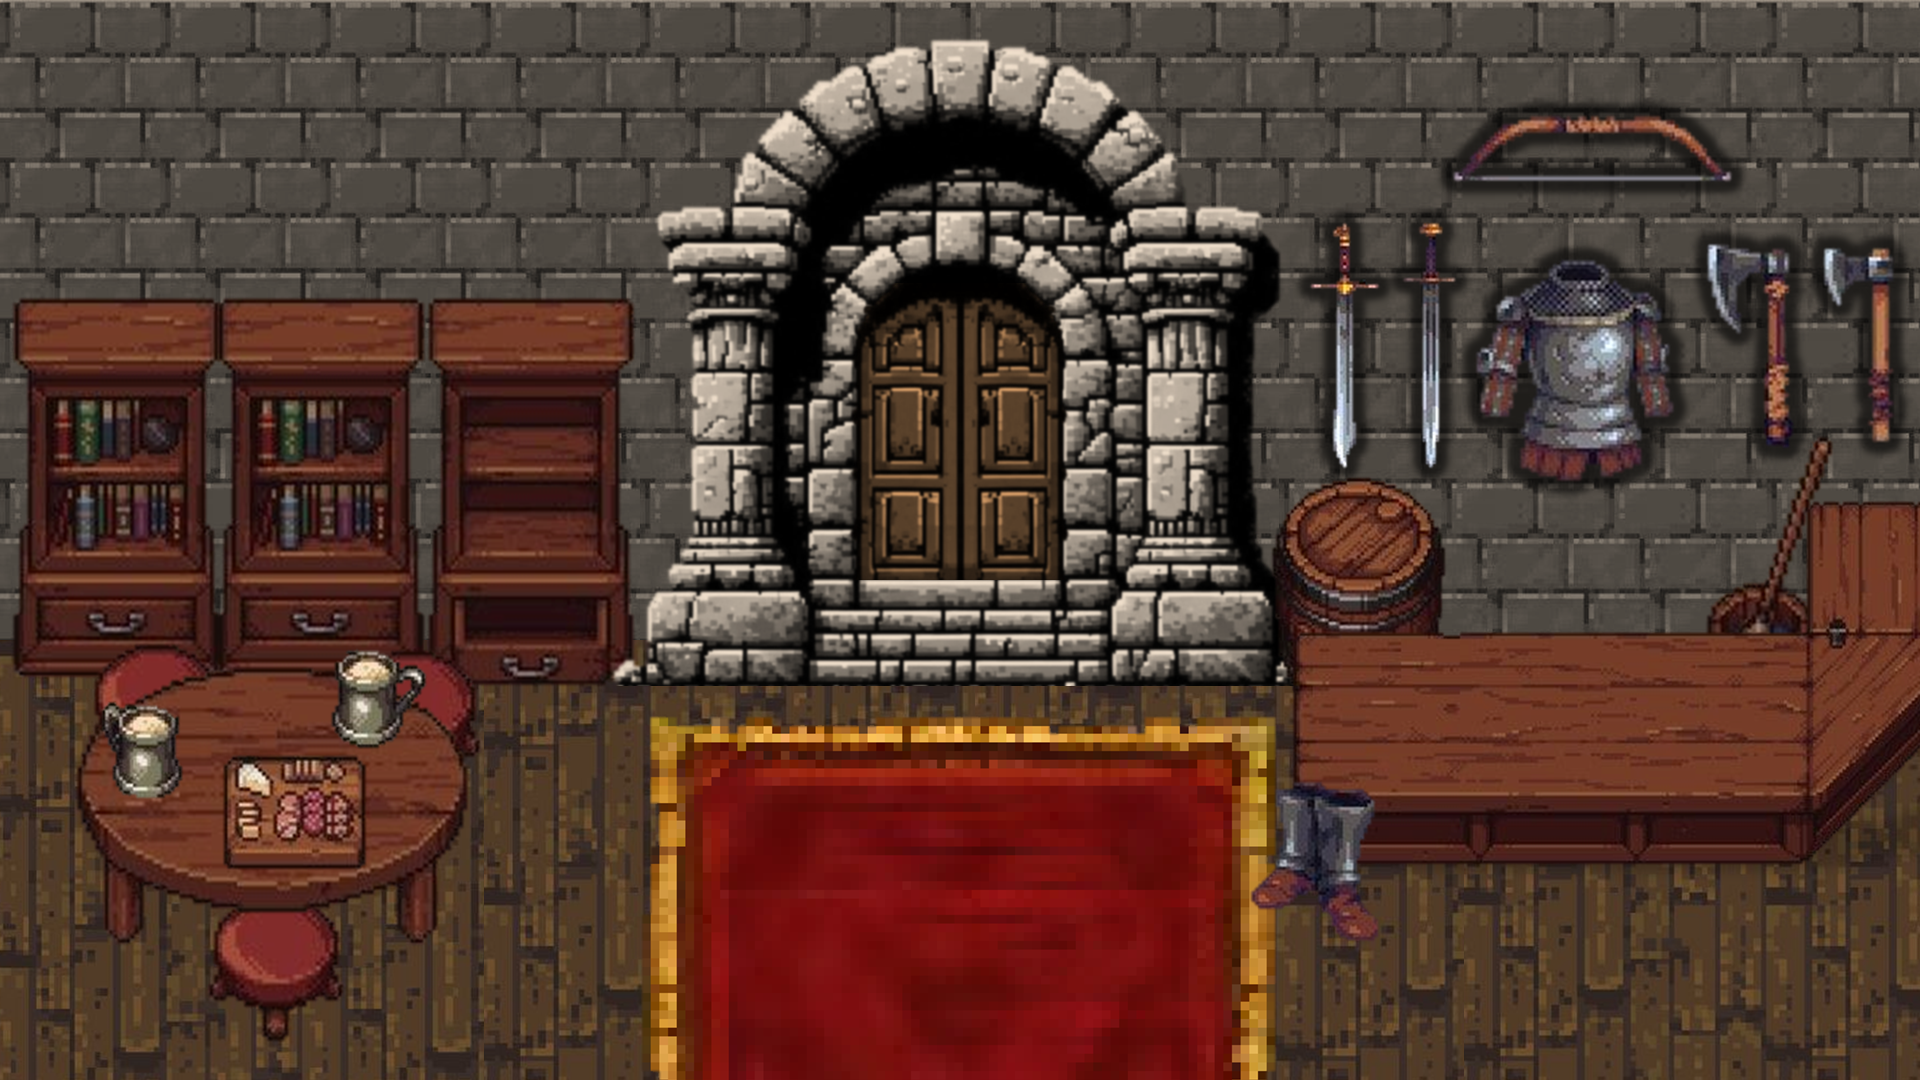
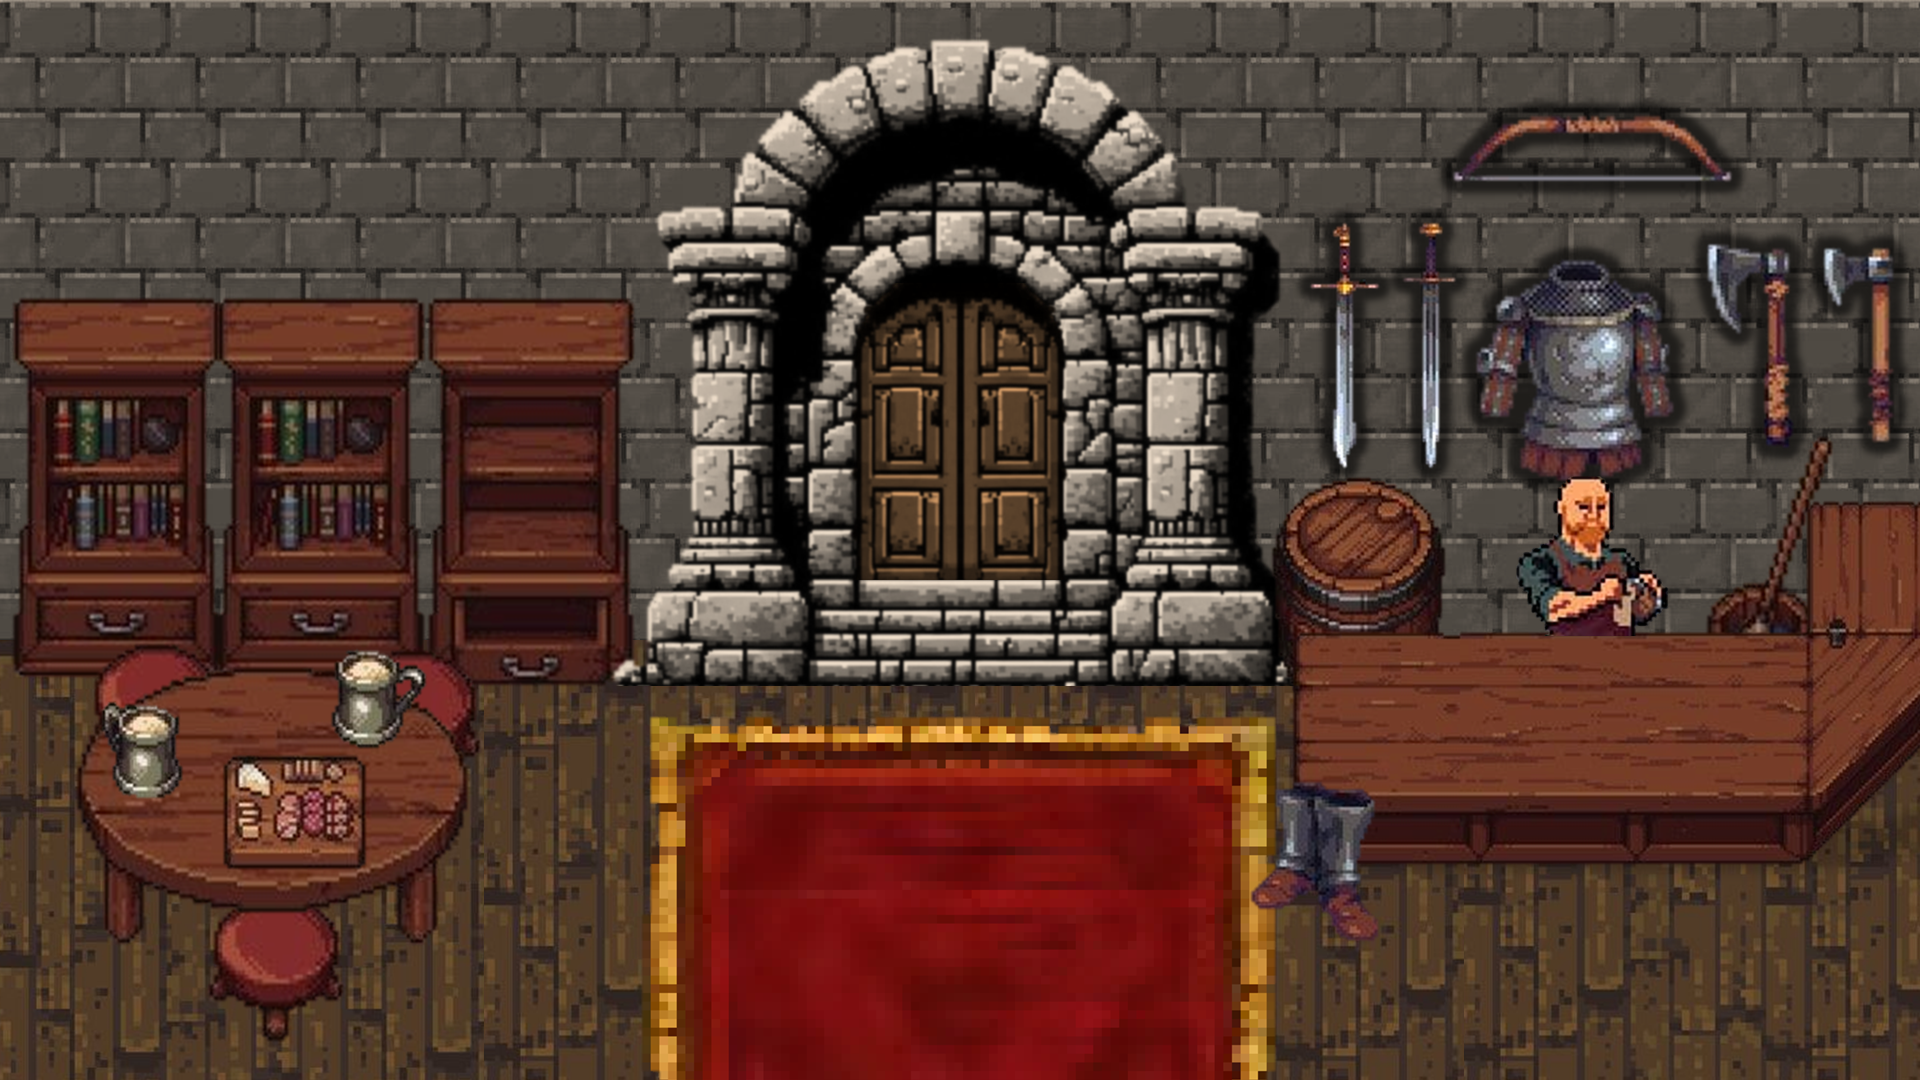
Появился торговец

Changed region(s): [[0.7812, 0.4278, 0.875, 0.6111]]

diff --git a/client/src/pages/Lobby/LobbyCanvas/LobbyCanvas.tsx b/client/src/pages/Lobby/LobbyCanvas/LobbyCanvas.tsx
@@ -1,7 +1,6 @@
 import React, { useEffect, useState, useRef, useContext, useCallback, useMemo } from 'react';
 import { ServerContext, StoreContext } from '../../../App';
 import CONFIG, { EDIRECTION } from "../../../config";
-import Game from '../../../game/Game';
 import { Canvas, useCanvas } from "../../../services/canvas";
 import { IBasePage, PAGES } from '../../PageManager';
 import { useRoomUser } from '../../../hooks/useRoomUser';
@@ -12,34 +11,35 @@ import menuBackground from '../../../assets/img/lobby/menu-background.png';
 import lobbyBackground from '../../../assets/img/lobby/lobby-background.png';
 
 const lobbyField = 'lobby-field';
+let bg = new Image();
+bg.src = menuBackground;
+
+let movementKeys = {
+    w: false,
+    a: false,
+    s: false,
+    d: false
+};
 
 type TLobbyCanvas = IBasePage & {
     setGame: (game: LobbyGame) => void;
+    setPage: (page: PAGES) => void;
     openLobbyBook: () => void;
     openClassShop: () => void;
     isMovementBlocked: boolean;
 };
 
 const LobbyCanvas: React.FC<TLobbyCanvas> = (props: TLobbyCanvas) => {
-    const { room } = props;
+    let game: LobbyGame | null = null;
+    const { setGame, setPage, openLobbyBook, openClassShop, isMovementBlocked } = props;
     const server = useContext(ServerContext);
     const store = useContext(StoreContext);
-
+    let canvas: Canvas;
+    const Canvas = useCanvas(render);
     const { WINDOW, SPRITE_SIZE } = CONFIG;
     const user = store.getUser();
-
-    const gameRef = useRef<LobbyGame | null>(null);
-    const canvasRef = useRef<Canvas | null>(null);
-    const animationFrameRef = useRef<number>(0);
-    const backgroundImageRef = useRef<HTMLImageElement>(new Image());
-
+    const room = store.getUserRoom();
     const { isUserRoomMember } = useRoomUser(room, user);
-    const background = isUserRoomMember ? lobbyBackground : menuBackground;
-    const { setPage } = props;
-
-    useEffect(() => {
-        backgroundImageRef.current.src = background;
-    }, [background]);
 
     const {
         spritesImage,
@@ -50,6 +50,22 @@ const LobbyCanvas: React.FC<TLobbyCanvas> = (props: TLobbyCanvas) => {
 
     const heroIdleRightSprite = heroSprites.idleRightSprite;
     const heroIdleLeftSprite = heroSprites.idleLeftSprite;
+
+    useEffect(() => {
+        bg.src = isUserRoomMember ? lobbyBackground : menuBackground;
+    }, [isUserRoomMember]);
+
+    function printGameObject(
+        canvas: Canvas,
+        { x = 0, y = 0, width = 0, height = 0 }: { x: number; y: number; width: number; height: number },
+        color: string
+    ): void {
+        canvas.rectangle(x, y, width, height, color);
+    }
+
+    function printFillSprite(image: HTMLImageElement, canvas: Canvas, { x = 0, y = 0 }, points: number[]): void {
+        canvas.spriteFull(image, x, y, points[0], points[1], points[2]);
+    }
 
     function printHeroSprite(
         canvas: Canvas,
@@ -80,103 +96,61 @@ const LobbyCanvas: React.FC<TLobbyCanvas> = (props: TLobbyCanvas) => {
         printFillSprite(spritesImage, canvas, { x, y }, [sx, sy, size]);
     }
 
-    const keysPressedRef = useRef({
-        w: false,
-        a: false,
-        s: false,
-        d: false
-    });
+    function render(fps: number): void {
+        if (!canvas || !game) return;
+        canvas.clear();
+        canvas.clearImage(bg);
 
-    // Функция для отрисовки
-    function printGameObject(
-        canvas: Canvas,
-        { x = 0, y = 0, width = 100, height = 100 }: { x: number; y: number; width: number; height: number },
-        color: string
-    ): void {
-        canvas.rectangle(x, y, width, height, color);
-    }
+        const scene = game.getScene();
+        const { heroes, walls } = scene;
 
-    function printFillSprite(image: HTMLImageElement, canvas: Canvas, { x = 0, y = 0 }, points: number[]): void {
-        canvas.spriteFull(image, x, y, points[0], points[1], points[2]);
-    }
-    function printSprite(canvas: Canvas, { x = 0, y = 0 }, points: number[]): void {
-        printFillSprite(spritesImage, canvas, { x, y }, points);
-    }
-
-    // Использование функции render:
-    const render = (FPS: number): void => {
-        if (canvasRef.current && gameRef.current && backgroundImageRef.current) {
-            canvasRef.current.clearImage(backgroundImageRef.current);
-            const scene = gameRef.current.getScene();
-            const { heroes, walls } = scene;
-            // Рисуем стены
-            walls.forEach(wall => {
-                printGameObject(canvasRef.current!, {
-                    x: wall.x,
-                    y: wall.y,
-                    width: wall.width,
-                    height: wall.height
-                }, 'transparent');
-            });
-
-            // Рисуем всех героев
-            heroes.forEach((hero, index) => {
-                const color = index === 0 ? 'blue' : ['green', 'yellow', 'purple'][index % 3];
-                printGameObject(canvasRef.current!, hero.rect, color);
-
-                // Подписываем имя героя
-                canvasRef.current!.text(hero.rect.x, hero.rect.y - 150, hero.name || "Неизвестно", 'white');
-                printHeroSprite(canvasRef.current!, {
-                    x: hero.rect.x - SPRITE_SIZE + hero.rect.width + 100,
-                    y: hero.rect.y - SPRITE_SIZE + hero.rect.height + 10
-                }, hero);
-            });
-
-            // Рисуем FPS
-            canvasRef.current.text(WINDOW.LEFT + 20, WINDOW.TOP + 50, String(FPS), 'green');
-
-            canvasRef.current.render();
+        for (let i = 0; i < walls.length; i++) {
+            const wall = walls[i];
+            printGameObject(canvas, {
+                x: wall.x,
+                y: wall.y,
+                width: wall.width,
+                height: wall.height
+            }, 'transparent');
         }
-    };
 
-    const CanvasComponent = useCanvas(render);
+        heroes.forEach((hero, index) => {
+            const color = index === 0 ? 'blue' : ['green', 'yellow', 'purple'][index % 3];
+            printGameObject(canvas, hero.rect, color);
 
-    const handleMovement = useCallback(() => {
-        // Если движение заблокировано (меню открыто), не обрабатываем нажатия клавиш
-        if (props.isMovementBlocked) {
-            keysPressedRef.current = { w: false, a: false, s: false, d: false };
+            canvas.text(hero.rect.x, hero.rect.y - 150, hero.name || "Неизвестно", 'white');
+
+            printHeroSprite(canvas, {
+                x: hero.rect.x - SPRITE_SIZE + hero.rect.width + 100,
+                y: hero.rect.y - SPRITE_SIZE + hero.rect.height + 10
+            }, hero);
+        });
+
+        canvas.text(WINDOW.LEFT + 20, WINDOW.TOP + 50, String(fps), 'green');
+        canvas.render();
+    }
+
+    const handleMovement = () => {
+        if (isMovementBlocked) {
+            movementKeys = { w: false, a: false, s: false, d: false };
             return;
         }
 
-        const { w, a, s, d } = keysPressedRef.current;
-
-        let dx = 0;
-        let dy = 0;
-
+        const { w, a, s, d } = movementKeys;
+        let dx = 0, dy = 0;
         if (a) dx -= 1;
         if (d) dx += 1;
         if (w) dy -= 1;
         if (s) dy += 1;
 
-        if (gameRef.current) {
-            gameRef.current.updateCurrentUserMovement(dx, dy);
-        }
-    }, [props.isMovementBlocked]);
+        game?.updateCurrentUserMovement(dx, dy);
+    };
 
     useEffect(() => {
-        // Инициализация игры
-        const game = new LobbyGame(server, store);
-        gameRef.current = game;
-        props.setGame(game);
+        game = new LobbyGame(server, store);
+        setGame(game);
 
-        const scene = gameRef.current.getScene();
-        scene.heroes.forEach(hero => {
-            hero.rect.x = 740;
-            hero.rect.y = 800;
-        });
-
-        // Инициализация канваса
-        canvasRef.current = CanvasComponent({
+        canvas = Canvas({
             parentId: lobbyField,
             WIDTH: WINDOW.WIDTH,
             HEIGHT: WINDOW.HEIGHT,
@@ -184,53 +158,51 @@ const LobbyCanvas: React.FC<TLobbyCanvas> = (props: TLobbyCanvas) => {
             callbacks: {
                 mouseMove: () => { },
                 mouseClick: () => { },
-                mouseRightClick: () => { },
+                mouseRightClick: () => { }
             },
         });
 
-        // Игровой цикл
+        let animationFrame: number;
+
         const gameLoop = () => {
             if (store.gameStatus == 'started' && store.rooms.length > 0) {
                 setPage(PAGES.GAME);
             };
             handleMovement();
-            animationFrameRef.current = requestAnimationFrame(gameLoop);
+            animationFrame = requestAnimationFrame(gameLoop);
         };
 
-        animationFrameRef.current = requestAnimationFrame(gameLoop);
+        animationFrame = requestAnimationFrame(gameLoop);
 
         return () => {
-            // Очистка ресурсов
-            cancelAnimationFrame(animationFrameRef.current);
-            gameRef.current?.destructor();
-            canvasRef.current?.destructor();
-            canvasRef.current = null;
-            gameRef.current = null;
+            cancelAnimationFrame(animationFrame);
+            canvas?.destructor();
         };
-    }, [handleMovement, WINDOW]);
-
+    }, []);
 
     useEffect(() => {
         const keyDownHandler = (event: KeyboardEvent) => {
             const keyCode = event.keyCode ? event.keyCode : event.which ? event.which : 0;
             if (document.activeElement?.tagName === 'INPUT' && keyCode === 70) return;
+            if (isMovementBlocked) return;
+
             switch (keyCode) {
                 case 65: // a
-                    if (!props.isMovementBlocked) keysPressedRef.current.a = true;
+                    movementKeys.a = true;
                     break;
                 case 68: // d
-                    if (!props.isMovementBlocked) keysPressedRef.current.d = true;
+                    movementKeys.d = true;
                     break;
                 case 87: // w
-                    if (!props.isMovementBlocked) keysPressedRef.current.w = true;
+                    movementKeys.w = true;
                     break;
                 case 83: // s
-                    if (!props.isMovementBlocked) keysPressedRef.current.s = true;
+                    movementKeys.s = true;
                     break;
                 case 70: // f
                     event.preventDefault();
-                    if (!props.isMovementBlocked && gameRef.current) {
-                        const hero = gameRef.current.getScene().heroes[0];
+                    if (game) {
+                        const hero = game.getScene().heroes[0];
 
                         const inStartZone = hero.rect.x > 814 && hero.rect.x < 1105 &&
                             hero.rect.y > 685 && hero.rect.y < 770;
@@ -239,9 +211,9 @@ const LobbyCanvas: React.FC<TLobbyCanvas> = (props: TLobbyCanvas) => {
                             hero.rect.y > 866 && hero.rect.y < 951;
 
                         if (inStartZone) {
-                            props.openLobbyBook();
+                            openLobbyBook();
                         } else if (inShopZone) {
-                            props.openClassShop();
+                            openClassShop();
                         }
                     }
                     break;
@@ -255,16 +227,16 @@ const LobbyCanvas: React.FC<TLobbyCanvas> = (props: TLobbyCanvas) => {
 
             switch (keyCode) {
                 case 65: // a
-                    keysPressedRef.current.a = false;
+                    movementKeys.a = false;
                     break;
                 case 68: // d
-                    keysPressedRef.current.d = false;
+                    movementKeys.d = false;
                     break;
                 case 87: // w
-                    keysPressedRef.current.w = false;
+                    movementKeys.w = false;
                     break;
                 case 83: // s
-                    keysPressedRef.current.s = false;
+                    movementKeys.s = false;
                     break;
                 default:
                     break;
@@ -278,7 +250,12 @@ const LobbyCanvas: React.FC<TLobbyCanvas> = (props: TLobbyCanvas) => {
             document.removeEventListener('keydown', keyDownHandler);
             document.removeEventListener('keyup', keyUpHandler);
         };
-    }, [props.isMovementBlocked]);
+    }, [isMovementBlocked, openLobbyBook, openClassShop]);
+
+    useEffect(() => () => {
+        game?.destructor();
+    }, []);
+
 
     return (<div id={lobbyField} className={lobbyField}></div>)
 }

diff --git a/client/src/hooks/useRoomUser.ts b/client/src/hooks/useRoomUser.ts
@@ -1,6 +1,6 @@
 import { TRoom, TUser } from "../services/server/types";
 
-export const useRoomUser = (room: TRoom | undefined, user: TUser | null) => {
+export const useRoomUser = (room: TRoom | undefined | null, user: TUser | null) => {
     const owner = room?.members.find(member => member.type === 'owner');
     const member = room?.members.find(member => user?.userId === member?.userId);
     return {
